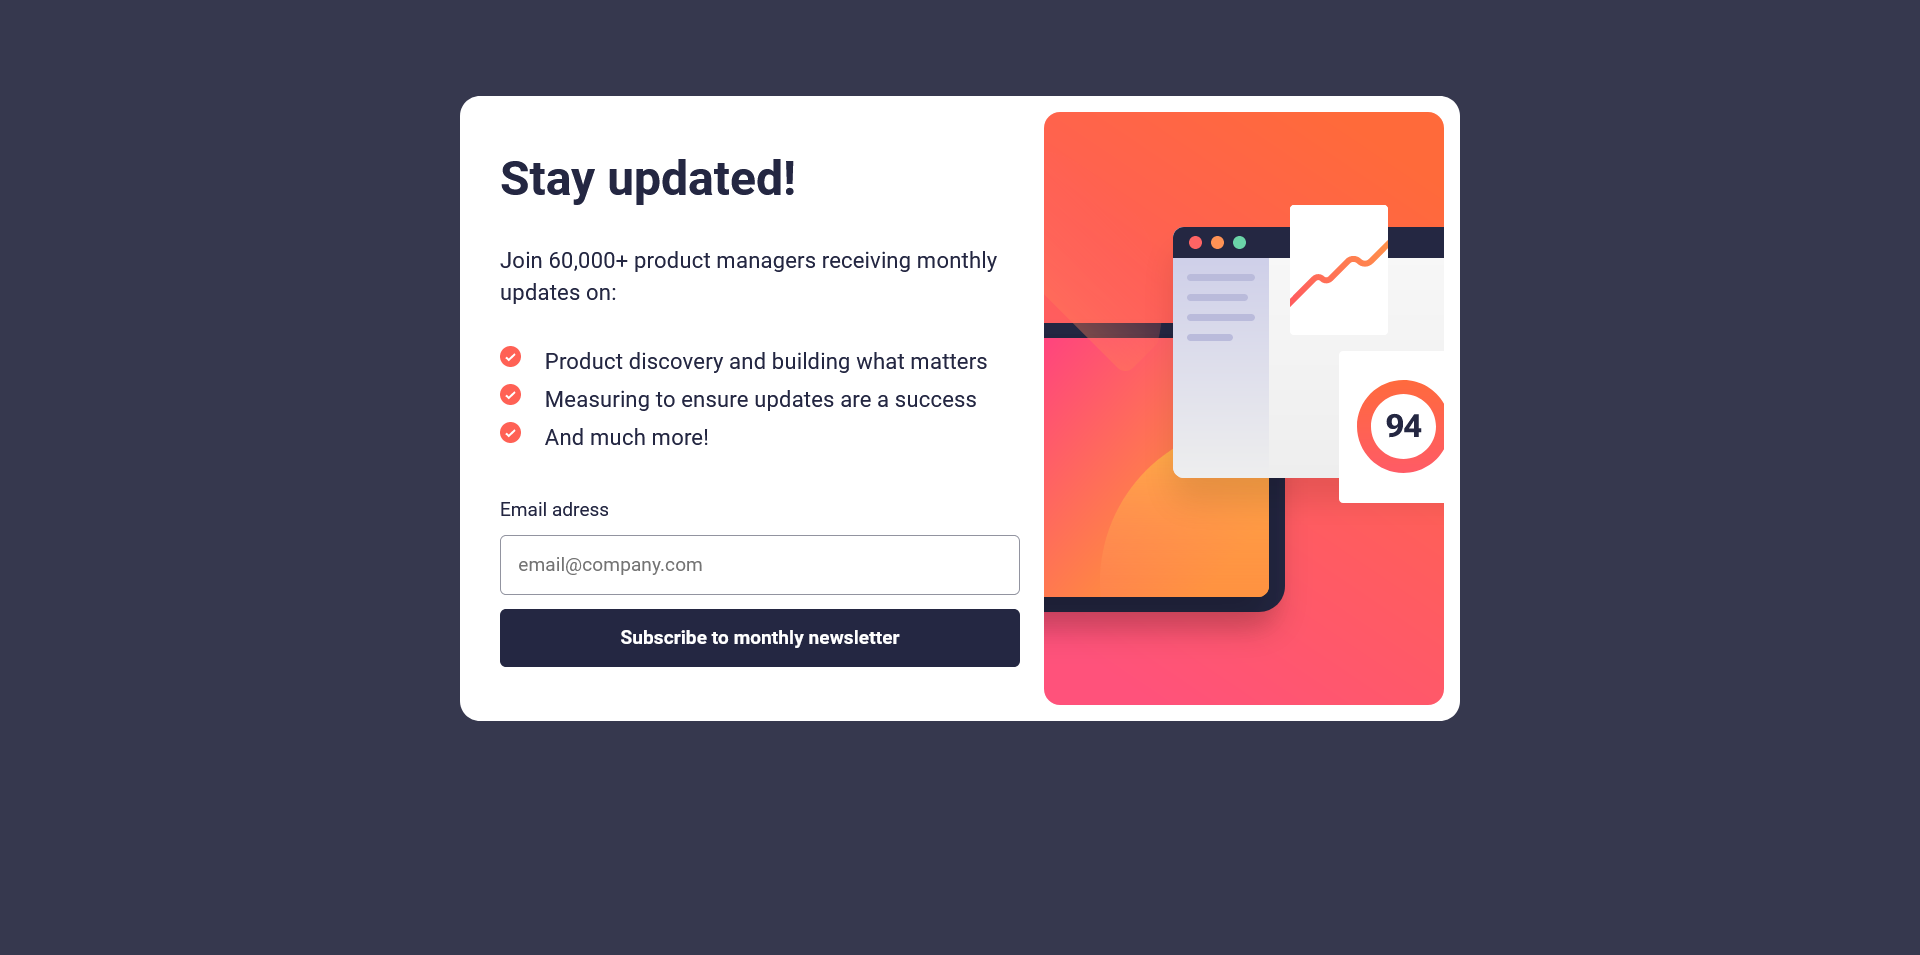
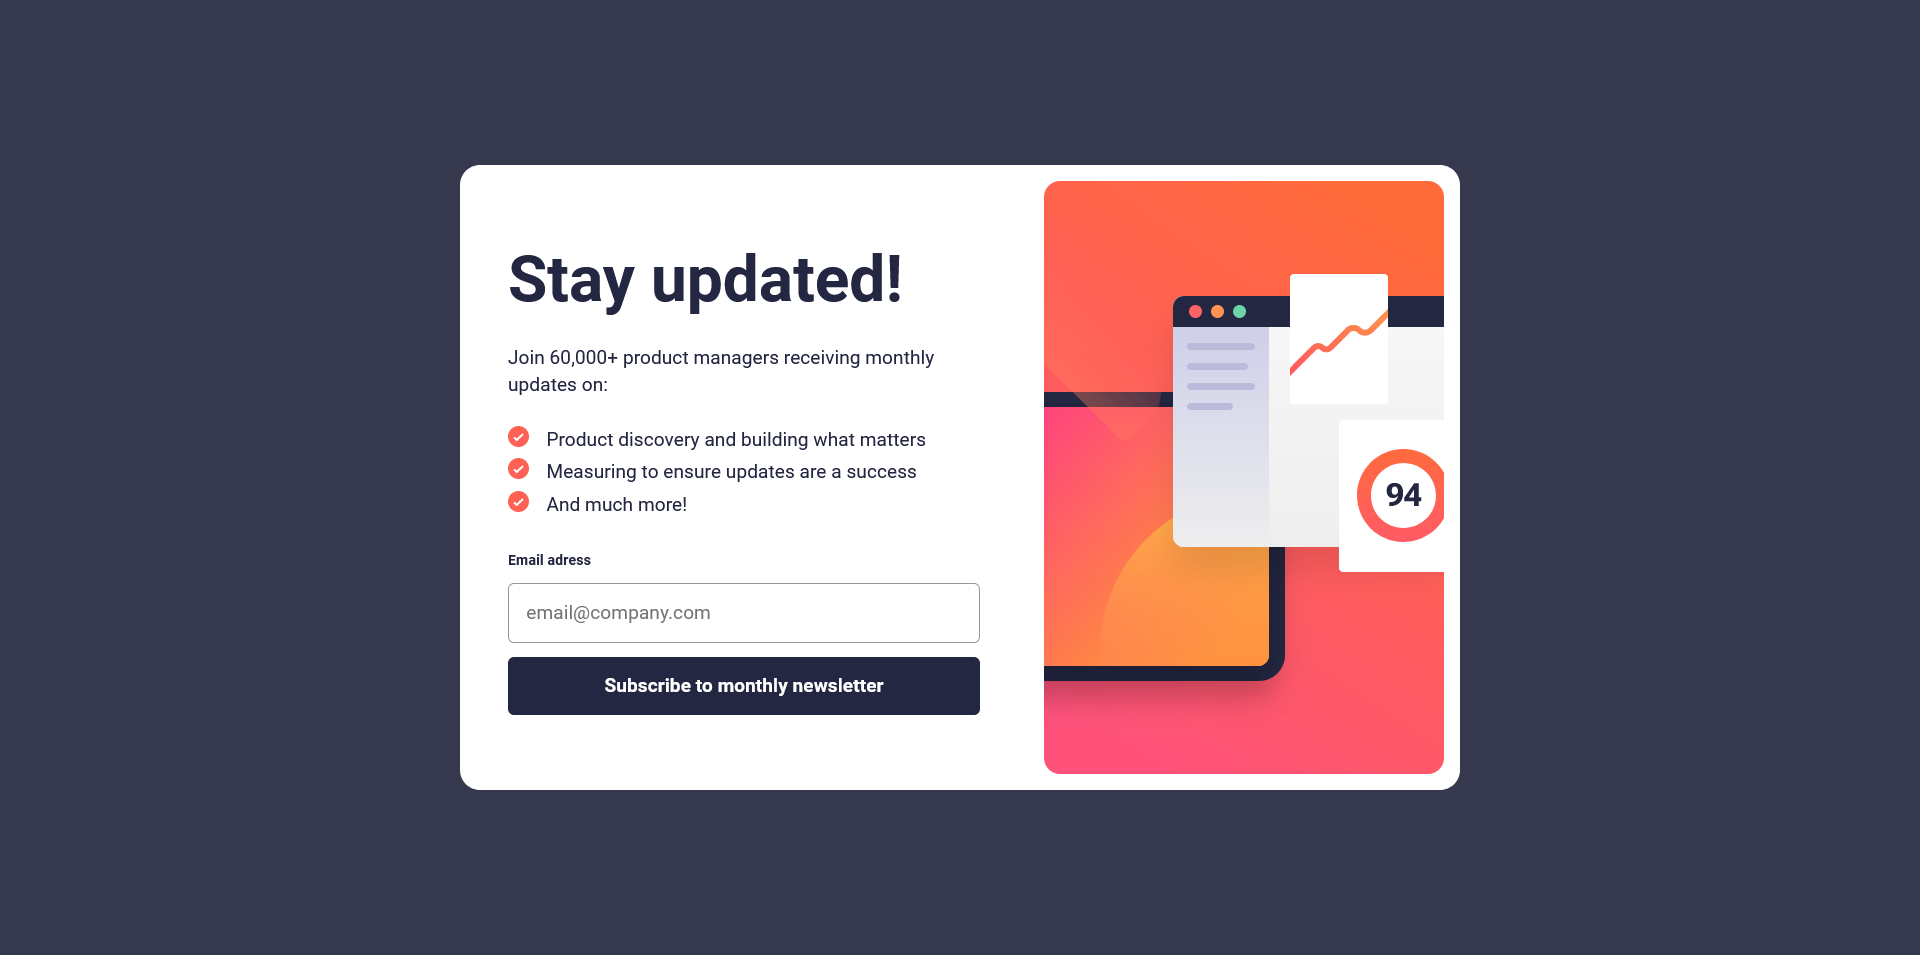
finishing touches to the project

diff --git a/styles/index.css b/styles/index.css
@@ -274,7 +274,8 @@ body
     {
         display: flex;
         justify-content: center;
-        margin-top: 10vh;
+        align-items: center;
+        height: 100vh;
     }
 
     .main-content
@@ -285,14 +286,21 @@ body
         margin: 0 auto;
     
         grid-template-columns: 1fr auto;
+        grid-template-rows: 1fr;
+        gap: 2em;
 
-        padding: 1em;
+        padding: 1em 1em 1em 1em;
         border-radius: 20px;
+    }
+
+    .text-and-body-container
+    {
+        padding: 2em 2em 2em 2em;
     }
 
     .desktop-image
     {
-        display: block;
+        display: block; 
         order: 1;
     }
 
@@ -316,27 +324,38 @@ body
 
     .text-and-body-container h1
     {
-        font-size: clamp(1.9rem, 4vw, 3rem);
+        font-size: clamp(2.5rem, 4vw, 4rem);
     }
 
     .text-and-body-container p
     {
-        font-size: clamp(0.96rem , 2vw , 1.4rem);
+        font-size: clamp(0.8rem , 1vw , 1.4rem);
     }
 
     .text-and-body-container ul li
     {
-        font-size: clamp(0.96rem , 2vw , 1.4rem);
+        font-size: clamp(0.8rem , 1vw , 1.4rem);
     }
 
     .email-input
     {
-        font-size: clamp(0.9rem , 2vw , 1.2rem);
+        font-size: clamp(0.8rem , 1vw , 1.4rem);
     }
 
     .submit-button
     {
-        font-size: clamp(0.9rem , 2vw , 1.2rem);
+        font-size: clamp(0.8rem , 1vw , 1.4rem);
+    }
+
+    .email
+    {
+        font-size: 0.9rem;
+        font-weight: 700;
+    }
+
+    .email-error-message
+    {
+        font-size: 0.9rem;
     }
 
     .success-message h1
